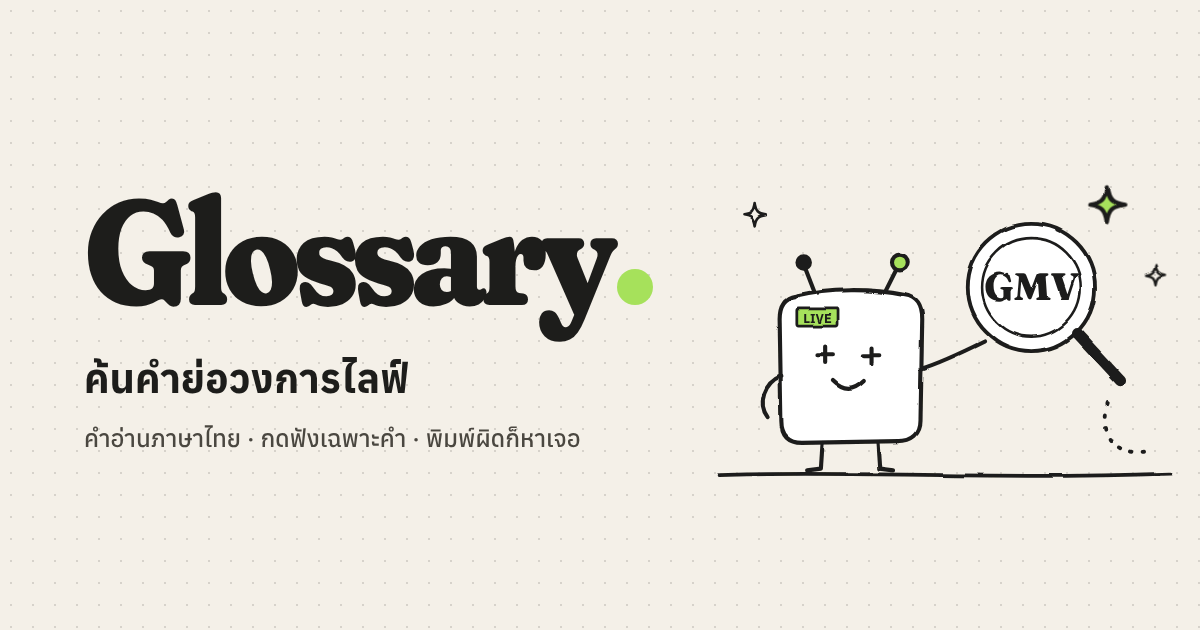
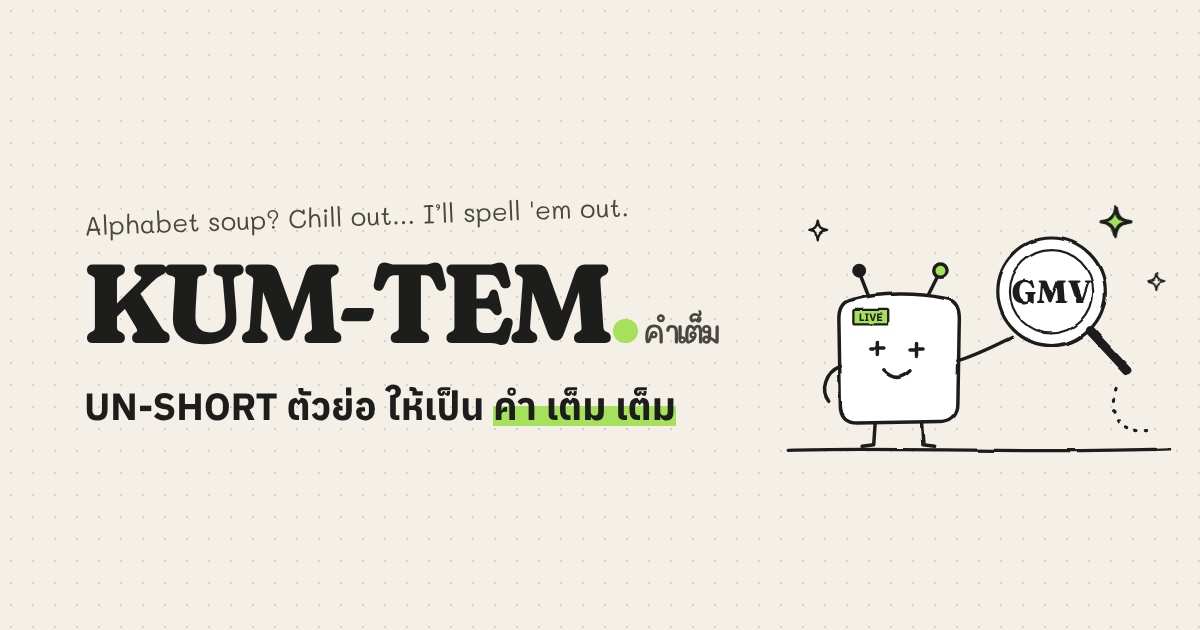
Rename to KUM-TEM (คำเต็ม) and add the UN-SHORT copy
- Wordmark is now KUM-TEM. with a handwritten คำเต็ม label
- Intro slide 1 introduces the tool: ตัวย่อที่ยุ่งยาก? ไม่อยากยืนงง ก็ส่งมาให้ยืดดดดดด
- Home hero: UN-SHORT. / จากตัวย่อ ให้เป็น คำ เต็ม เต็ม, the English
  'Alphabet soup?' line as a handwritten note, and the สบายยยย lead
- Search placeholder: พิมพ์ตัวย่อที่อยากยืดดดด ได้เลยย
- Page title, meta and social preview image updated
- Stop tracking tsconfig.tsbuildinfo (build output)

Claude-Session: https://claude.ai/code/session_01AmuyF9VMqzStkAist87G7o

diff --git a/src/styles/app.css b/src/styles/app.css
@@ -1,5 +1,5 @@
 /* =========================================================
-   Glossary. — doodle notebook UI
+   KUM-TEM. (คำเต็ม) — doodle notebook UI
    Paper + ink + one lime accent. Corners stay nearly square.
    ========================================================= */
 
@@ -380,6 +380,17 @@ a {
 .wordmark--small {
   font-size: 22px;
 }
+.wordmark-th {
+  display: inline-block;
+  margin-left: 8px;
+  font-family: var(--font-hand);
+  font-size: 13px;
+  font-weight: 400;
+  letter-spacing: 0;
+  color: var(--ink-2);
+  vertical-align: 4px;
+  transform: rotate(-4deg);
+}
 .wordmark-dot,
 .hero-dot {
   display: inline-block;
@@ -693,12 +704,29 @@ mark {
 .hero {
   padding: 18px 20px 0;
 }
-.hero h1 {
+.hero-note {
+  display: inline-block;
+  font-family: var(--font-hand);
+  font-size: 15px;
+  line-height: 1.45;
+  color: var(--ink-2);
+  transform: rotate(-2deg);
+}
+.hero-title {
   margin-top: 10px;
-  font-size: 36px;
+  font-family: var(--font-display);
+  font-weight: 800;
+  font-size: clamp(42px, 14.5vw, 56px);
+  line-height: 1;
+  letter-spacing: -0.035em;
+  font-variation-settings: "SOFT" 100, "WONK" 1;
+  white-space: nowrap;
+}
+.hero-sub {
+  margin-top: 12px;
+  font-size: 25px;
   font-weight: 700;
-  line-height: 1.16;
-  letter-spacing: -0.01em;
+  line-height: 1.3;
 }
 .hero-lead {
   max-width: 310px;
@@ -1632,6 +1660,39 @@ mark {
   letter-spacing: -0.035em;
   font-variation-settings: "SOFT" 100, "WONK" 1;
 }
+.onboarding-kicker {
+  margin-top: 40px;
+  font-family: var(--font-hand);
+  font-size: 18px;
+  color: var(--ink-2);
+  transform: rotate(-3deg);
+  transform-origin: left;
+}
+.onboarding-kicker + .onboarding-word {
+  margin-top: 4px;
+}
+.onboarding-word--brand {
+  font-size: clamp(44px, 15vw, 58px);
+  white-space: nowrap;
+}
+.stretch {
+  display: inline-block;
+  margin-left: 4px;
+  padding: 0 2px;
+  background: linear-gradient(transparent 52%, var(--lime) 52%, var(--lime) 92%, transparent 92%);
+  color: var(--ink);
+  font-weight: 700;
+  transform-origin: left center;
+  animation: stretch 900ms 250ms cubic-bezier(0.3, 1.6, 0.5, 1) both;
+}
+@keyframes stretch {
+  from {
+    transform: scaleX(0.55);
+  }
+  to {
+    transform: none;
+  }
+}
 .onboarding-text {
   max-width: 300px;
   margin-top: 22px;
@@ -1727,7 +1788,8 @@ mark {
   .toast {
     animation: fade-in 120ms ease-out both;
   }
-  .speak-btn .wave {
+  .speak-btn .wave,
+  .stretch {
     animation: none;
   }
   .btn,

diff --git a/src/screens/Home.tsx b/src/screens/Home.tsx
@@ -20,7 +20,7 @@ export function HomeHeader() {
   return (
     <header className="home-header">
       <button className="logo-btn" onClick={() => go({ name: "home" })} aria-label="หน้าแรก">
-        <Art slot="logo" className="logo-art" fallback={<Wordmark />} alt="Glossary" />
+        <Art slot="logo" className="logo-art" fallback={<Wordmark thai />} alt="KUM-TEM คำเต็ม" />
       </button>
       <div className="home-header-actions">
         <button className="icon-btn icon-btn--count" onClick={() => go({ name: "saved" })} aria-label={`สมุดคำ ${savedIds.length} คำ`}>
@@ -48,13 +48,14 @@ export function Home({ query }: { query: string }) {
       <HomeHeader />
       {!searching ? (
         <section className="hero">
-          <p className="eyebrow">Creatr365 · Live Commerce</p>
-          <h1>
-            ค้นคำย่อ
-            <br />
-            วงการไลฟ์<span className="hero-dot" aria-hidden />
+          <p className="hero-note" lang="en">Alphabet soup? Chill out... I’ll spell 'em out.</p>
+          <h1 className="hero-title" lang="en">
+            UN-SHORT<span className="hero-dot" aria-hidden />
           </h1>
-          <p className="hero-lead">พิมพ์ตัวย่อ คำอ่าน หรือความหมาย — พิมพ์ผิดนิด ลืมสลับภาษา ก็ยังหาเจอ</p>
+          <p className="hero-sub">
+            จากตัวย่อ ให้เป็น <mark>คำ เต็ม เต็ม</mark>
+          </p>
+          <p className="hero-lead">รวมคำเต็มๆ ของหลากหลายกลุ่มที่ใช้กัน เพื่อให้ชาว Creatr365 สบายยยย สบายยย</p>
           <Art slot="home-hero" className="hero-art" fallback={<SceneDesk />} />
         </section>
       ) : null}
@@ -76,7 +77,7 @@ export function Home({ query }: { query: string }) {
             value={query}
             onChange={(event) => setQuery(event.target.value)}
             onBlur={() => remember(query)}
-            placeholder="เช่น GMV, ซีวีอาร์, ยอดขาย"
+            placeholder="พิมพ์ตัวย่อที่อยากยืดดดด ได้เลยย"
             autoComplete="off"
             autoCorrect="off"
             autoCapitalize="off"

diff --git a/src/screens/Overlays.tsx b/src/screens/Overlays.tsx
@@ -1,4 +1,4 @@
-import { useRef, useState } from "react";
+import { useRef, useState, type ReactNode } from "react";
 import { Art } from "../components/Art";
 import { IconBook, IconClose, IconGrid, IconInfo, IconSparkle, IconStar, SceneListen, SceneSave, SceneSearch } from "../components/doodles";
 import { Wordmark } from "../components/ui";
@@ -6,8 +6,20 @@ import type { ImageSlot } from "../config/images";
 import { useApp } from "../context";
 import type { VoiceMode } from "../lib/speech";
 
-const SLIDES: { word: string; slot: ImageSlot; body: string; Fallback: typeof SceneSearch }[] = [
-  { word: "Search", slot: "onboarding-1", body: "พิมพ์ตัวย่อหรือคำที่ได้ยินในไลฟ์ พิมพ์ผิดนิด หรือลืมสลับภาษา ก็ยังหาคำที่ใกล้ที่สุดให้", Fallback: SceneSearch },
+const SLIDES: { word: string; kicker?: string; slot: ImageSlot; body: ReactNode; Fallback: typeof SceneSearch }[] = [
+  {
+    word: "KUM-TEM",
+    kicker: "คำเต็ม",
+    slot: "onboarding-1",
+    body: (
+      <>
+        ตัวย่อที่ยุ่งยาก? ไม่อยากยืนงง
+        <br />
+        ก็ส่งมาให้<span className="stretch">ยืดดดดดด</span>
+      </>
+    ),
+    Fallback: SceneSearch,
+  },
   { word: "Listen", slot: "onboarding-2", body: "กดลำโพงเพื่อฟังวิธีอ่านเฉพาะคำนั้น ไม่อ่านยาวทั้งย่อหน้า พูดตามได้ทันที", Fallback: SceneListen },
   { word: "Save", slot: "onboarding-3", body: "เก็บคำที่ใช้บ่อยไว้ในสมุดคำ แล้วไล่ดูคำในหมวดเดียวกันต่อได้เลย", Fallback: SceneSave },
 ];
@@ -44,7 +56,8 @@ export function Onboarding({ onDone }: { onDone: () => void }) {
         </div>
       </div>
       <div className="onboarding-body" key={slide.word}>
-        <h1 className="onboarding-word">
+        {slide.kicker ? <p className="onboarding-kicker">{slide.kicker}</p> : null}
+        <h1 className={`onboarding-word ${slide.kicker ? "onboarding-word--brand" : ""}`} lang="en">
           {slide.word}
           <span className="wordmark-dot" aria-hidden />
         </h1>

diff --git a/index.html b/index.html
@@ -4,10 +4,10 @@
     <meta charset="UTF-8" />
     <meta name="viewport" content="width=device-width, initial-scale=1, viewport-fit=cover" />
     <meta name="theme-color" content="#F4F0E8" />
-    <title>Glossary. — คลังคำย่อ Live Commerce | Creatr365</title>
-    <meta name="description" content="ค้นคำย่อและศัพท์วงการไลฟ์คอมเมิร์ซ พร้อมคำอ่านภาษาไทย กดฟังเสียงเฉพาะคำ พิมพ์ผิดก็หาเจอ" />
-    <meta property="og:title" content="Glossary. — คลังคำย่อ Live Commerce" />
-    <meta property="og:description" content="ค้นคำย่อวงการไลฟ์ พร้อมคำอ่าน กดฟังเสียงเฉพาะคำ" />
+    <title>KUM-TEM (คำเต็ม) — ยืดตัวย่อให้เป็นคำเต็ม | Creatr365</title>
+    <meta name="description" content="ตัวย่อที่ยุ่งยาก? ไม่อยากยืนงง ก็ส่งมาให้ยืด รวมคำเต็มของหลากหลายกลุ่มที่ชาว Creatr365 ใช้กัน พร้อมคำอ่านและปุ่มฟังเสียงเฉพาะคำ" />
+    <meta property="og:title" content="KUM-TEM (คำเต็ม) — UN-SHORT ตัวย่อให้เป็นคำเต็ม" />
+    <meta property="og:description" content="Alphabet soup? Chill out... I’ll spell 'em out." />
     <meta property="og:type" content="website" />
     <meta property="og:image" content="/og-image.png" />
     <meta name="twitter:card" content="summary_large_image" />

diff --git a/src/config/images.ts b/src/config/images.ts
@@ -33,7 +33,7 @@ export const IMAGE_SLOTS = {
   "about-hero": { where: "หน้าข้อมูลเพิ่มเติม ด้านบน", size: "640 × 340" },
   "desk-left": { where: "ตกแต่งซ้ายของกรอบมือถือ (เฉพาะจอคอม)", size: "440 × 600" },
   "desk-right": { where: "ตกแต่งขวาของกรอบมือถือ (เฉพาะจอคอม)", size: "440 × 600" },
-  "logo": { where: "โลโก้มุมซ้ายบน แทนตัวอักษร Glossary.", size: "สูง 56 px (กว้างตามสัดส่วน)" },
+  "logo": { where: "โลโก้มุมซ้ายบน แทนตัวอักษร KUM-TEM.", size: "สูง 56 px (กว้างตามสัดส่วน)" },
 } as const;
 
 export type ImageSlot = keyof typeof IMAGE_SLOTS;

diff --git a/src/components/ui.tsx b/src/components/ui.tsx
@@ -4,10 +4,11 @@ import type { Entry } from "../data/types";
 import type { Speech } from "../lib/speech";
 import { IconArrow, IconBack, IconSpeaker, IconStar } from "./doodles";
 
-export function Wordmark({ small = false }: { small?: boolean }) {
+export function Wordmark({ small = false, thai = false }: { small?: boolean; thai?: boolean }) {
   return (
     <span className={`wordmark ${small ? "wordmark--small" : ""}`}>
-      Glossary<span className="wordmark-dot" aria-hidden />
+      KUM-TEM<span className="wordmark-dot" aria-hidden />
+      {thai ? <span className="wordmark-th">คำเต็ม</span> : null}
     </span>
   );
 }

diff --git a/src/screens/About.tsx b/src/screens/About.tsx
@@ -95,7 +95,7 @@ export function AboutScreen() {
       <section className="about-hero">
         <Art slot="about-hero" className="about-art" fallback={<SceneAbout />} />
         <h1>
-          เกี่ยวกับคลังคำ<span className="hero-dot" aria-hidden />
+          เกี่ยวกับ KUM-TEM<span className="hero-dot" aria-hidden />
         </h1>
         <p>{stripMd(glossary.docTitle)}</p>
         <p className="muted">

diff --git a/README.md b/README.md
@@ -1,7 +1,11 @@
-# Glossary. — คลังคำย่อ Live Commerce (Creatr365)
+# KUM-TEM. (คำเต็ม) — UN-SHORT ตัวย่อให้เป็นคำเต็ม
 
-เว็บแอปค้นคำย่อ/ศัพท์วงการไลฟ์คอมเมิร์ซ สไตล์ doodle บนกระดาษ แสดงผลเป็นหน้าจอมือถือ
-เปิดได้ทุกอุปกรณ์ และฝังในเว็บอื่นด้วย `<iframe>` ได้
+> *Alphabet soup? Chill out... I’ll spell 'em out.*
+
+ตัวย่อที่ยุ่งยาก? ไม่อยากยืนงง ก็ส่งมาให้ยืด — รวมคำเต็มๆ ของหลากหลายกลุ่มที่ใช้กัน
+เพื่อให้ชาว Creatr365 สบายยยย สบายยย
+
+เว็บแอปสไตล์ doodle บนกระดาษ แสดงผลเป็นหน้าจอมือถือ เปิดได้ทุกอุปกรณ์ และฝังในเว็บอื่นด้วย `<iframe>` ได้
 
 - **ค้นหาแบบให้คะแนน** — ตรงทั้งคำ > ขึ้นต้นเหมือนกัน > มีคำนั้นอยู่ > คำอ่านไทย > สะกดใกล้เคียง
 - **พิมพ์ผิดก็เจอ** — `gvm` → GMV, `raos` → ROAS, `เด็ดแอร์` → Dead Air
@@ -79,7 +83,7 @@ npm run build    # build ไปที่ dist/
 ```html
 <iframe
   src="https://YOUR-APP.vercel.app/?embed=1"
-  title="Creatr365 Glossary"
+  title="KUM-TEM คำเต็ม"
   style="width:100%;max-width:420px;height:760px;border:0;display:block;margin:0 auto"
   loading="lazy"></iframe>
 ```
